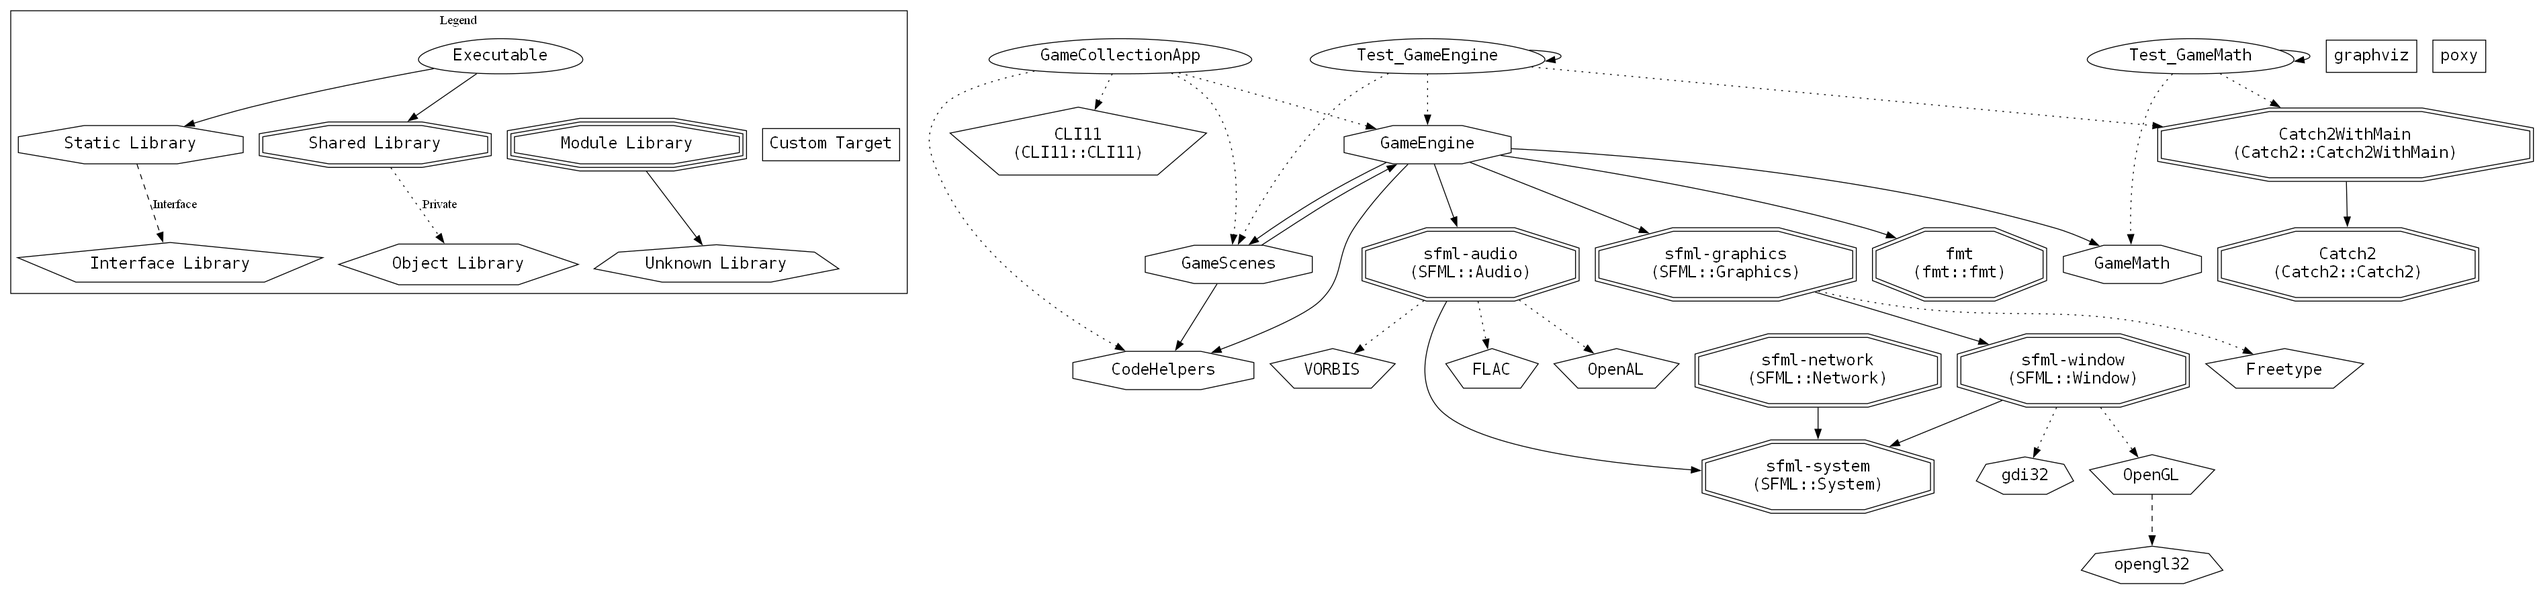
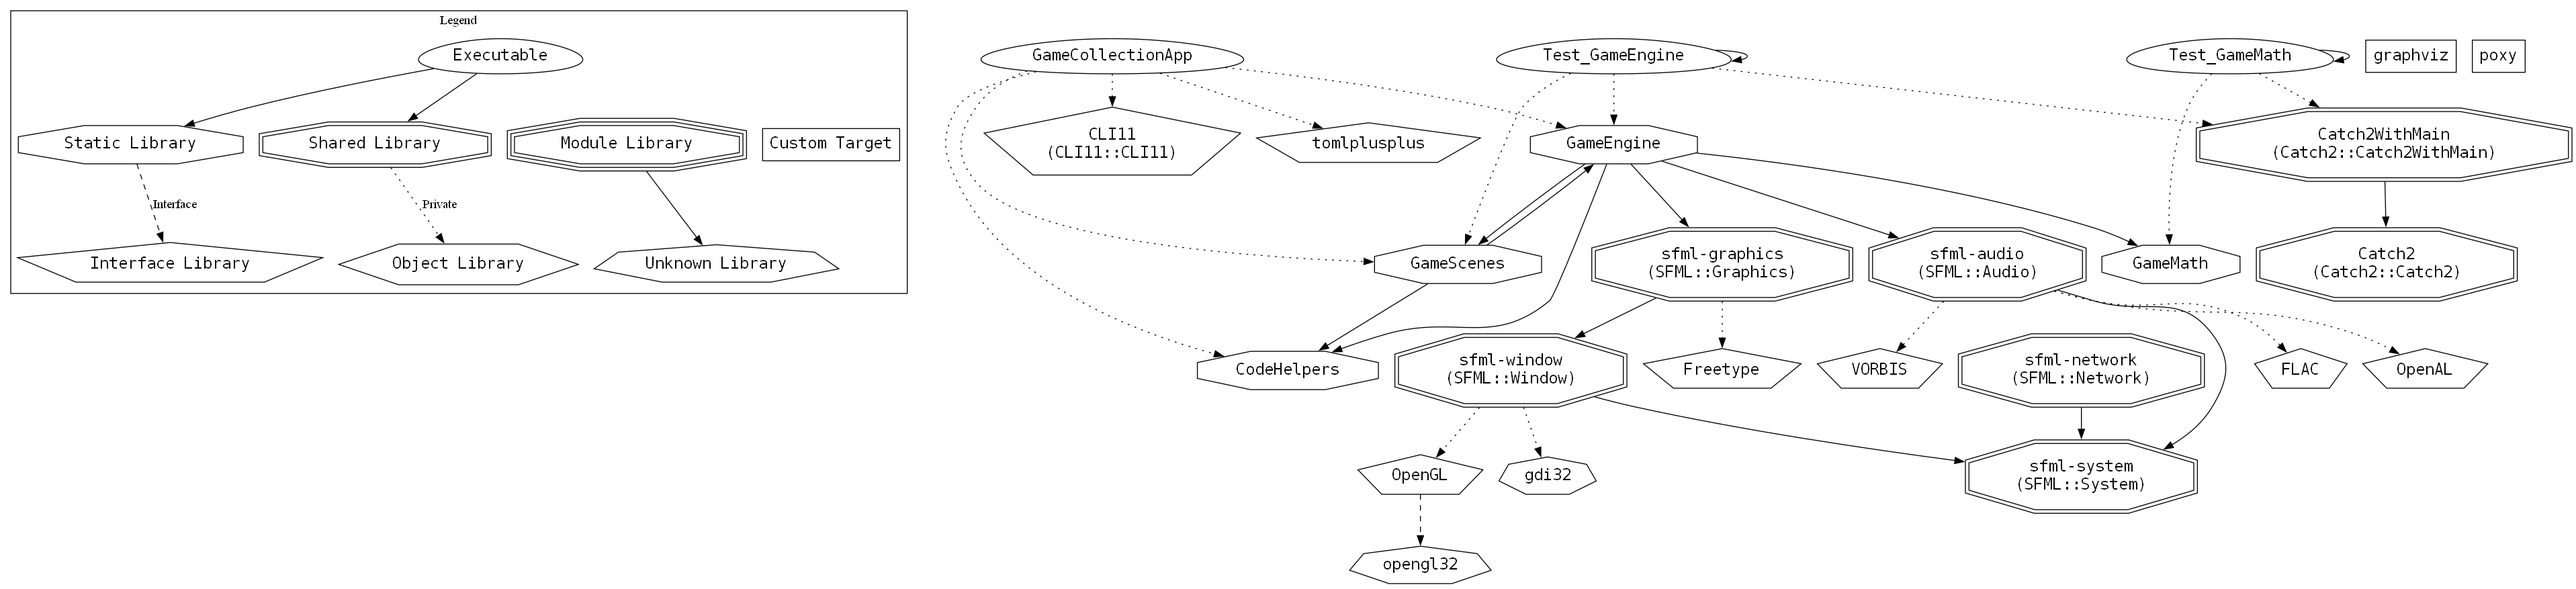
Added config.toml parsing to main executable

diff --git a/app/main.cpp b/app/main.cpp
@@ -3,6 +3,7 @@
 #include <CLI/Formatter.hpp>  // NOLINT
 #include <CodeHelpers/Profiler.hpp>
 #include <GameEngine/GameEngine.hpp>
+#include <tomlplusplus/toml.hpp>
 
 using namespace std::string_literals;
 
@@ -13,23 +14,44 @@ auto main(int argc, char** argv) -> int
 	// The following Initializer for the Game Engine will be modified by the CL parameters
 	Engine::Initializer ini;
 
+
 	//!---------------------------------------------------------------------------------------------
 	//! Parse command line arguments
 	//!---------------------------------------------------------------------------------------------
-	
+
 	// see https://cliutils.github.io/CLI11/book/
 	CLI::App app{"Game collection"};
 
 	auto gameSelect{""s};
-	auto inputFile{"default"s};
+	auto inputFile{"../../data/config.toml"s};
 
 	app.add_option("-g,--game", ini.initial_scene, "Which game to load");
-	app.add_option("-f,--file", inputFile, "Settings file to load");
+	app.add_option("-f,--file", inputFile, "Path to configuration file to load");
 
 	[[maybe_unused]] const auto* list = app.add_flag("-l,--list", "List all available games");
 	[[maybe_unused]] const auto* quit = app.add_flag("-q,--quit", "Immediately exit program");
 
 	CLI11_PARSE(app, argc, argv)
+
+
+	// Read values from the command line or the config.toml file, with the importance being
+	// command line > config.timl > default values
+	try
+	{
+		toml::table config = toml::parse_file(inputFile);
+
+		// for each entry in the config.toml file, set the correct value
+		if(!ini.initial_scene.has_value())
+		{
+			ini.initial_scene = config["game"].value<std::string>();
+		}
+	}
+	catch(const std::exception& e)
+	{
+		std::cerr << e.what() << std::endl;
+		return 1;
+	}
+
 
 	// --------------------------------------------------------------------------------------------
 	// Start the application
